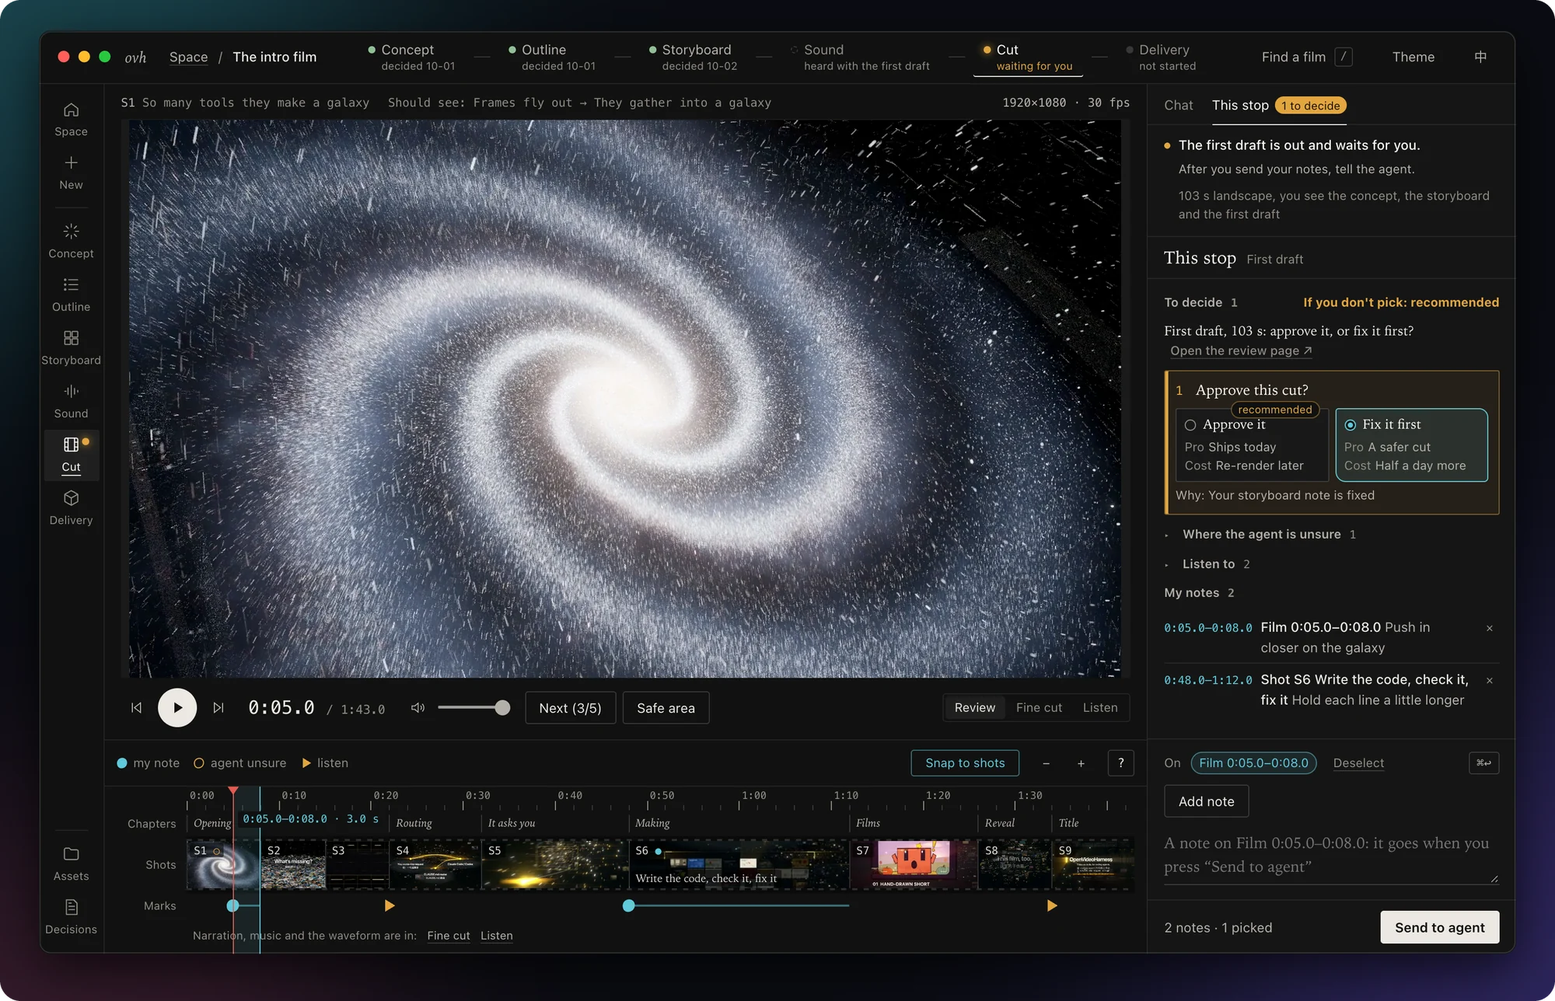
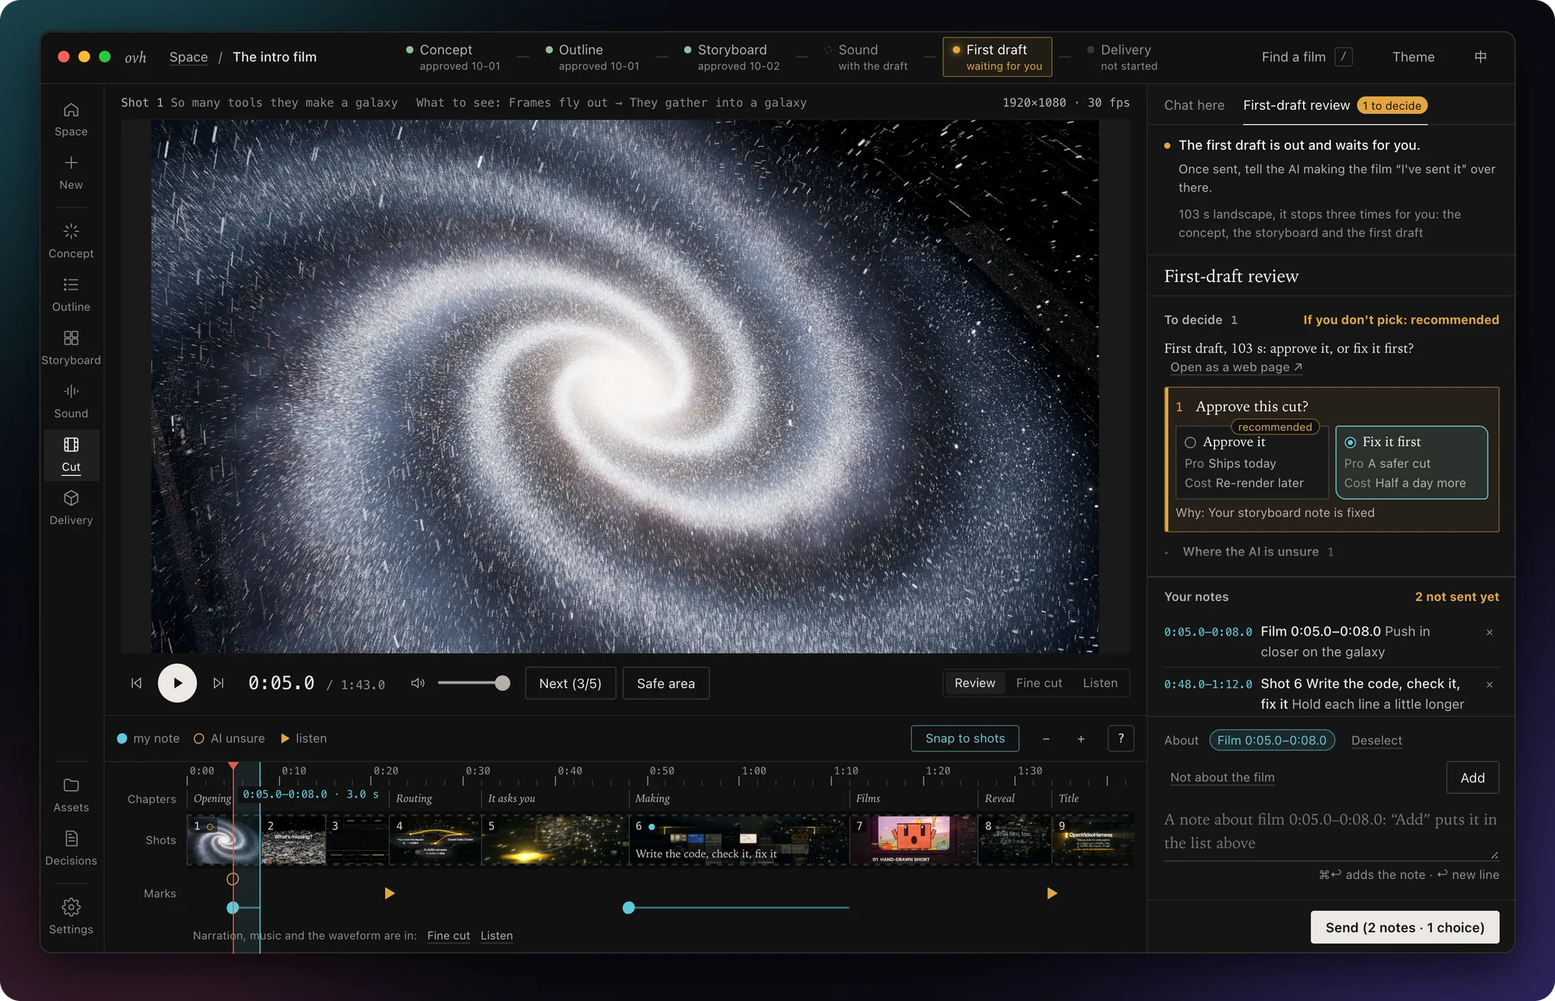
README 和官网上的 Studio 截图跟着 v0.9.0 的页面重拍
- 中英文 18 张图在隔离的控制台上真点真写重拍：主图、空间、分镜、初版写意见、立意、复审对比、三套主题，片子和停的那一步照旧，用仓库自己的介绍片和样片。
- 复审对比改用样片里的傅里叶讲解；弹窗多了一行换行提示，高 674 像素，官网的 height 跟着改。
- 两份 README 和官网描述这些图的 alt 与说明换成新页面的说法。

diff --git a/docs/site/index.html b/docs/site/index.html
@@ -836,15 +836,15 @@ html[data-lang="zh"] .layer.harness::after { content: "缺的那一层"; }
       <figcaption><span lang="en">OVH Studio in 17 seconds: look, point, say, decide (the film's words are in Chinese). The film under review in the window is this repo's own intro film.</span><span lang="zh">OVH Studio，17 秒：看、指、说、定。窗口里在审的，是这个仓库自己的介绍片。</span></figcaption>
     </figure>
     <ol class="studio-steps">
-      <li data-r><button type="button" class="shot-btn" data-szoom><img lang="en" src="../assets/studio/space.en.webp" width="1440" height="900" loading="lazy" decoding="async" alt="Studio's space: a card for every film, the ones waiting for you first"><img lang="zh" src="../assets/studio/space.zh.webp" width="1440" height="900" loading="lazy" decoding="async" alt="Studio 的空间：每支片子一张卡，等你的排在最前"></button><h3><span lang="en">See where it stands</span><span lang="zh">片子走到哪</span></h3><p><span lang="en">The left column is the stops: concept, outline, storyboard, sound, cut, delivery. A line across the top marks where this film is and who it waits for; the films waiting for you come first.</span><span lang="zh">左边一列就是做片子的几站：立意、大纲、分镜、声音、成片、交付。顶上一条线标着这支片子在哪一站、在等谁；等你的片子排在最前。</span></p></li>
-      <li data-r><button type="button" class="shot-btn" data-szoom><img lang="en" src="../assets/studio/board.en.webp" width="1440" height="900" loading="lazy" decoding="async" alt="The storyboard stop: a keyframe per shot, the shot the agent is unsure of marked"><img lang="zh" src="../assets/studio/board.zh.webp" width="1440" height="900" loading="lazy" decoding="async" alt="分镜这一站：每一镜一张关键帧，agent 没把握的那一镜标出来"></button><h3><span lang="en">Point and say</span><span lang="zh">指着说</span></h3><p><span lang="en">A keyframe per shot, a timeline for the cut. Select a shot, a second or a span and write a line: it becomes a note on that very place.</span><span lang="zh">分镜每一镜一张关键帧，成片是一条时间线。选中一个镜头、一秒或一段，写一句，就是对着那一处的点评。</span></p></li>
-      <li data-r><button type="button" class="shot-btn" data-szoom><img lang="en" src="../assets/studio/note.en.webp" width="1440" height="900" loading="lazy" decoding="async" alt="The cut stop: a few seconds selected on the timeline and a note written about them"><img lang="zh" src="../assets/studio/note.zh.webp" width="1440" height="900" loading="lazy" decoding="async" alt="成片这一站：时间线上选中几秒，写了一条对着这几秒的点评"></button><h3><span lang="en">Hand them over together</span><span lang="zh">攒几条一起交</span></h3><p><span lang="en">Notes gather in the right-hand column. A summary shows them before anything goes; your words land in the project's REVIEW.md, and the agent carries on from them.</span><span lang="zh">点评攒在右边一列，交之前先列一遍；你的原话记进项目的 REVIEW.md，agent 照着往下做。</span></p></li>
-      <li data-r><button type="button" class="shot-btn" data-szoom><img lang="en" src="../assets/studio/decide.en.webp" width="1440" height="900" loading="lazy" decoding="async" alt="The concept stop: three concept cards with a frame each, the recommended one already chosen"><img lang="zh" src="../assets/studio/decide.zh.webp" width="1440" height="900" loading="lazy" decoding="async" alt="立意这一站：三张立意卡各配一帧，推荐的那张已经选好"></button><h3><span lang="en">Decide on cards</span><span lang="zh">在卡片上定</span></h3><p><span lang="en">At the concept, the storyboard and the draft, what you decide is a few cards with the recommended one chosen. Change it with a click, or leave it, and submit once.</span><span lang="zh">到了立意、分镜、初版，要你定的是几张卡，推荐的已经选好。点一下就换，不动就照推荐，最后提交一次。</span></p></li>
+      <li data-r><button type="button" class="shot-btn" data-szoom><img lang="en" src="../assets/studio/space.en.webp" width="1440" height="900" loading="lazy" decoding="async" alt="Studio's space: a card for every film, the ones waiting for you first, and on the right the place to start a new one"><img lang="zh" src="../assets/studio/space.zh.webp" width="1440" height="900" loading="lazy" decoding="async" alt="Studio 的空间：每支片子一张卡，等你的排在最前，右边一列开新片子"></button><h3><span lang="en">See where it stands</span><span lang="zh">片子走到哪</span></h3><p><span lang="en">The row along the top is the film's steps: concept, outline, storyboard, sound, first draft, delivery, each saying who is doing what. The column on the left is what to look at; the films waiting for you come first.</span><span lang="zh">顶上一排是这支片子的几步：立意、大纲、分镜、声音、初版、交付，每一步写着谁在做。左边一列是看什么；等你的片子排在最前。</span></p></li>
+      <li data-r><button type="button" class="shot-btn" data-szoom><img lang="en" src="../assets/studio/board.en.webp" width="1440" height="900" loading="lazy" decoding="async" alt="A storyboard waiting for you: a keyframe per shot, the shot the AI is unsure of marked"><img lang="zh" src="../assets/studio/board.zh.webp" width="1440" height="900" loading="lazy" decoding="async" alt="分镜在等你看：每一镜一张关键帧，AI 没把握的那一镜标出来"></button><h3><span lang="en">Point and say</span><span lang="zh">指着说</span></h3><p><span lang="en">A keyframe per shot, a timeline for the first draft. Select a shot, a second or a span, write a line and press “Add”: it becomes a note on that very place.</span><span lang="zh">分镜每一镜一张关键帧，初版是一条时间线。选中一个镜头、一秒或一段，写一句，点“加一条”，就是写给那一处的意见。</span></p></li>
+      <li data-r><button type="button" class="shot-btn" data-szoom><img lang="en" src="../assets/studio/note.en.webp" width="1440" height="900" loading="lazy" decoding="async" alt="A first draft: a few seconds selected on the timeline and a note added about them, not sent yet"><img lang="zh" src="../assets/studio/note.zh.webp" width="1440" height="900" loading="lazy" decoding="async" alt="初版：时间线上选中几秒，加了一条关于这几秒的意见，还没发"></button><h3><span lang="en">Send them together</span><span lang="zh">攒几条一起发</span></h3><p><span lang="en">Notes gather in the right-hand column, each marked not sent, sent, or picked up. A summary shows them before anything goes; your words land in the project's REVIEW.md, and the agent carries on from them.</span><span lang="zh">意见攒在右边一列，每条写着还没发、发了，还是已经被取走。发出去之前先列一遍；你的原话记进项目的 REVIEW.md，agent 照着往下做。</span></p></li>
+      <li data-r><button type="button" class="shot-btn" data-szoom><img lang="en" src="../assets/studio/decide.en.webp" width="1440" height="900" loading="lazy" decoding="async" alt="A concept waiting for you to pick: three concept cards with a frame each, the recommended one already picked"><img lang="zh" src="../assets/studio/decide.zh.webp" width="1440" height="900" loading="lazy" decoding="async" alt="立意在等你挑：三张立意卡各配一帧，推荐的那张已经选好"></button><h3><span lang="en">Decide on cards</span><span lang="zh">在卡片上定</span></h3><p><span lang="en">At the concept, the storyboard and the draft, what you decide is a few cards with the recommended one chosen. Change it with a click, or leave it, and send once.</span><span lang="zh">到了立意、分镜、初版，要你定的是几张卡，推荐的已经选好。点一下就换，不动就照推荐，最后发一次。</span></p></li>
     </ol>
     <div class="studio-revision" data-r>
       <button type="button" class="shot-btn" data-szoom>
-        <img lang="en" src="../assets/studio/revision.en.webp" width="1060" height="656" loading="lazy" decoding="async" alt="Studio comparing two cuts at the same timecode. Only the original shows the formula yet.">
-        <img lang="zh" src="../assets/studio/revision.zh.webp" width="1060" height="656" loading="lazy" decoding="async" alt="Studio 在同一时间点对比两版成片，左边的原版已经出现公式">
+        <img lang="en" src="../assets/studio/revision.en.webp" width="1060" height="674" loading="lazy" decoding="async" alt="Studio comparing two cuts at the same timecode. Only the original shows the formula yet.">
+        <img lang="zh" src="../assets/studio/revision.zh.webp" width="1060" height="674" loading="lazy" decoding="async" alt="Studio 在同一时间点对比两版成片，左边的原版已经出现公式">
       </button>
       <div>
         <h3><span lang="en">Compare the revision</span><span lang="zh">同一段改完了，接着复审</span></h3>

diff --git a/README.md b/README.md
@@ -47,7 +47,7 @@ The agent keeps the source and exports together in the film's project folder. Wi
 
 [Step-by-step guide](https://github.com/ZLHad/OpenVideoHarness/wiki/Getting-Started) · [Install options and updates](#install-options-and-updates)
 
-<p align="center"><a href="#studio"><img src="docs/assets/studio/hero.en.webp" width="960" alt="The OVH Studio window on a film's cut stop: the galaxy picture in the middle, under it a timeline with thumbnails and seconds 5 to 8 selected; on the right a card waiting for your decision and two notes written on shots, with the Send to agent button below"></a></p>
+<p align="center"><a href="#studio"><img src="docs/assets/studio/hero.en.webp" width="960" alt="The OVH Studio window on a film's first draft: the galaxy picture in the middle, under it a timeline with thumbnails and seconds 5 to 8 selected; along the top the film's steps, the first draft waiting for you; on the right the first-draft review with one choice made and two notes not sent yet, and the Send button below"></a></p>
 
 <p align="center"><sub>Making a film in Studio. Along the top, where the film has got to. Point at a few seconds of the timeline, or at a shot, and write a note. On the right, what waits for your decision; send it all together. The film on screen is this repo's own intro film.</sub></p>
 
@@ -100,19 +100,19 @@ On top of the skills and the command line, we built Studio, a visual window that
 
 <table>
 <tr>
-<td width="56%" valign="top"><img src="docs/assets/studio/space.en.webp" width="100%" alt="Studio's space: a card for every film, the three waiting for you first, each saying what you have to decide"></td>
+<td width="56%" valign="top"><img src="docs/assets/studio/space.en.webp" width="100%" alt="Studio's space: a card for every film, the three waiting for you first, each saying what you have to decide; on the right, the place to write the film you want to make"></td>
 <td valign="top"><b>Where each film has got to, at a glance.</b><br>The row along the top is this film's steps: concept, outline, script, storyboard, sound, first draft, delivery, only the steps this film has, each saying who is doing what: you decided, waiting for you, Claude Code working, not started yet. The column on the left is what to look at: each step's content, plus a record of assets and decisions. Studio opens on every film, the ones waiting for you first, each card saying what you have to decide.</td>
 </tr>
 <tr>
-<td valign="top"><img src="docs/assets/studio/board.en.webp" width="100%" alt="The storyboard stop: a page per segment, a keyframe per shot saying what is seen, the shot the agent is unsure of marked"></td>
+<td valign="top"><img src="docs/assets/studio/board.en.webp" width="100%" alt="A storyboard waiting for you: a page per segment, a keyframe per shot saying what is seen, the shot the AI is unsure of marked; on the right the storyboard review and its one decision"></td>
 <td valign="top"><b>Reviewing is pointing and saying.</b><br>The storyboard is a page per segment and a keyframe per shot; the cut's timeline carries the shots, the sound, what the checks found and where the AI is unsure. Select a shot, a second or a span, write a line, press “Add”, and it is a note.</td>
 </tr>
 <tr>
-<td valign="top"><img src="docs/assets/studio/note.en.webp" width="100%" alt="The cut stop: a few seconds selected on the timeline, and on the right a note written about those seconds"></td>
+<td valign="top"><img src="docs/assets/studio/note.en.webp" width="100%" alt="A first draft: a few seconds selected on the timeline, and on the right a note about those seconds added to your notes, not sent yet"></td>
 <td valign="top"><b>Collect a few, send them at once.</b><br>Each note is about what you pointed at, and they gather in the right-hand column, each marked not sent, sent and not picked up, or picked up. Before anything goes, a summary lists what you chose for each decision and what each note says. Your words are copied into the project's <code>REVIEW.md</code>, and the agent carries on from them.</td>
 </tr>
 <tr>
-<td valign="top"><img src="docs/assets/studio/decide.en.webp" width="100%" alt="The concept stop: on the left the numbers and objects that belong to this topic alone, on the right three concept cards with a frame each, the recommended one already chosen"></td>
+<td valign="top"><img src="docs/assets/studio/decide.en.webp" width="100%" alt="A concept waiting for you to pick: on the left the numbers and objects that belong to this topic alone, in the middle three concept cards with a frame each, the recommended one picked; on the right, ready to send"></td>
 <td valign="top"><b>What you decide, you decide right here.</b><br>At the concept, the storyboard and the first draft, the right-hand column holds what this step needs from you, a few cards each, with the recommended one already chosen. Leave it and the recommendation stands; click to change it; send once.</td>
 </tr>
 </table>

diff --git a/README.zh-CN.md b/README.zh-CN.md
@@ -47,7 +47,7 @@ curl -fsSL https://raw.githubusercontent.com/ZLHad/OpenVideoHarness/main/install
 
 [分步教程](https://github.com/ZLHad/OpenVideoHarness/wiki/%E5%BF%AB%E9%80%9F%E5%BC%80%E5%A7%8B) · [安装选项和更新](#安装更新和国内网络)
 
-<p align="center"><a href="#studio"><img src="docs/assets/studio/hero.zh.webp" width="960" alt="OVH Studio 的窗口，开着一支片子的成片这一站：中间是星河的画面，下面是带缩略图的时间线，选中了 5 到 8 秒；右边是等你拍板的一张卡和两条对着镜头写下的意见，底下是“交给 agent”的按钮"></a></p>
+<p align="center"><a href="#studio"><img src="docs/assets/studio/hero.zh.webp" width="960" alt="OVH Studio 的窗口，开着一支片子的初版：中间是星河的画面，下面是带缩略图的时间线，选中了 5 到 8 秒；顶上一排是这支片子的几步，初版在等你看；右边是看初版，定了一件事，两条意见还没发，底下是“发出去”的按钮"></a></p>
 
 <p align="center"><sub>在 Studio 里做一支片子。顶上是片子走到了哪一步；指着时间线上的几秒或一个镜头写意见；右边是等你拍板的事，攒好一起发出去。画面里是本仓库自己的介绍片。</sub></p>
 
@@ -100,19 +100,19 @@ curl -fsSL https://raw.githubusercontent.com/ZLHad/OpenVideoHarness/main/install
 
 <table>
 <tr>
-<td width="56%" valign="top"><img src="docs/assets/studio/space.zh.webp" width="100%" alt="Studio 的空间：所有片子各一张卡，等你看的三支排在最前，卡上写着等你定什么"></td>
+<td width="56%" valign="top"><img src="docs/assets/studio/space.zh.webp" width="100%" alt="Studio 的空间：所有片子各一张卡，等你看的三支排在最前，卡上写着等你定什么；右边一列是写一句话开新片子的地方"></td>
 <td valign="top"><b>片子走到哪，一眼看到。</b><br>顶上一排是这支片子的几步：立意、大纲、文案、分镜、声音、初版、交付，片子有哪几步就排哪几步，每一步下面写着谁在做：你定了、等你看、Claude Code 在做、还没开始。左边一列是看什么：每一步的内容，另有素材和决定的记录。打开 Studio 先看到所有片子，等你的排在最前，卡上写着要你定什么。</td>
 </tr>
 <tr>
-<td valign="top"><img src="docs/assets/studio/board.zh.webp" width="100%" alt="分镜这一站：一段一页，每一镜一张关键帧，写着看到什么，没把握的那一镜标出来"></td>
+<td valign="top"><img src="docs/assets/studio/board.zh.webp" width="100%" alt="分镜在等你看：一段一页，每一镜一张关键帧，写着看到什么，AI 没把握的那一镜标出来；右边是审分镜，有一件事等你定"></td>
 <td valign="top"><b>审片，就是指着说。</b><br>分镜一段一页，每一镜一张关键帧；成片的时间线上排着镜头、声音、检查查出的问题和 AI 没把握的地方。选中一个镜头、一秒或一段，写一句，点“加一条”，就是一条意见。</td>
 </tr>
 <tr>
-<td valign="top"><img src="docs/assets/studio/note.zh.webp" width="100%" alt="成片这一站：时间线上选中了几秒，右边写了一条对着这几秒的点评"></td>
+<td valign="top"><img src="docs/assets/studio/note.zh.webp" width="100%" alt="初版：时间线上选中了几秒，右边“你的意见”里加了一条关于这几秒的意见，还没发"></td>
 <td valign="top"><b>攒几条，一次发出去。</b><br>意见都写给你指的那一处，攒在右边一列，每条写着还没发、发了还没人取，还是已经被取走。发出去之前先列一遍：每件事选了什么、每条意见说了什么。你的原话抄进项目的 <code>REVIEW.md</code>，agent 照着往下做。</td>
 </tr>
 <tr>
-<td valign="top"><img src="docs/assets/studio/decide.zh.webp" width="100%" alt="立意这一站：左边是素材里只属于这个题目的数字和物件，右边三张立意卡各配一帧，推荐的已经选好"></td>
+<td valign="top"><img src="docs/assets/studio/decide.zh.webp" width="100%" alt="立意在等你挑：左边是素材里只属于这个题目的数字和物件，中间三张立意卡各配一帧，推荐的那张已经选好；右边是要发出去的这个选择"></td>
 <td valign="top"><b>要你定的事，就在这里定。</b><br>到了立意、分镜、初版，右边一列是这一步要你定的几件事，每件几张卡，推荐的已经选好。不动就是照推荐，点一下就换，最后发一次。</td>
 </tr>
 </table>

diff --git a/docs/site/README.md b/docs/site/README.md
@@ -29,7 +29,7 @@ GitHub's file view shows the HTML source, not the page. To see the page:
 Nothing from another site loads with the page, so it opens where Google Fonts, YouTube or a CDN are blocked:
 
 - **Fonts**: the display face (Inter Tight) and the mono face (JetBrains Mono) are in `fonts/`, cut down to Latin and the weights the page uses (23 kB and 12 kB, WOFF2), under the SIL Open Font License 1.1 (`fonts/OFL-*.txt`). They were taken from the google/fonts repository and cut with fontTools (`varLib.instancer`, then `pyftsubset … --flavor=woff2`). Body text and every Chinese character use the system's fonts.
-- **Pictures**: all from this repo. `../assets/studio/` holds the Studio pictures, which the READMEs use too: one per language (`<name>.en.webp`, `<name>.zh.webp`), each an `<img lang=…>` shown with the page's language, loaded lazily, and enlarged on a click. They show Studio's own pages on demo projects. The revision dialog is captured from a short square-area explainer with a test note asking for a longer pause after the formula. Studio's film plays from `media/studio-film.mp4` in a clone that ran `tools/fetch_media.sh` (`docs/site/media/` is not in git) and from the release `media` otherwise, through `<source type="video/mp4">`; its poster is `img/studio.jpg`. `img/` also holds five poster frames of the showcase films; `img/styles/` a 384 × 216 copy of each style's poster (about 14 kB each), for the galaxy and the style wall. The 5-second samples (`styles/<slug>/media/swatch.mp4`) load when a tile is hovered or clicked. A spec-2 style (5–10 s, `tokens.json` `"swatch": {"spec": 2}`) has only its 2 s `preview.mp4` in git: its tile plays that, and its lightbox plays the full sample from the release `styles-media` through `<source type="video/mp4">` once `STYLES_MEDIA_UPLOADED` is set to `true` (the preview, looping, until then). `RELEASE_SAMPLES` names each one's asset as `tools/media.txt` has it; `tools/readme.py check` says when they differ.
+- **Pictures**: all from this repo. `../assets/studio/` holds the Studio pictures, which the READMEs use too: one per language (`<name>.en.webp`, `<name>.zh.webp`), each an `<img lang=…>` shown with the page's language, loaded lazily, and enlarged on a click. They show Studio's own pages on demo projects. The revision dialog is captured from the repo's Fourier explainer (`showcase/03-math-fourier`), with a note asking the first sine wave to sit half a second before the formula. Studio's film plays from `media/studio-film.mp4` in a clone that ran `tools/fetch_media.sh` (`docs/site/media/` is not in git) and from the release `media` otherwise, through `<source type="video/mp4">`; its poster is `img/studio.jpg`. `img/` also holds five poster frames of the showcase films; `img/styles/` a 384 × 216 copy of each style's poster (about 14 kB each), for the galaxy and the style wall. The 5-second samples (`styles/<slug>/media/swatch.mp4`) load when a tile is hovered or clicked. A spec-2 style (5–10 s, `tokens.json` `"swatch": {"spec": 2}`) has only its 2 s `preview.mp4` in git: its tile plays that, and its lightbox plays the full sample from the release `styles-media` through `<source type="video/mp4">` once `STYLES_MEDIA_UPLOADED` is set to `true` (the preview, looping, until then). `RELEASE_SAMPLES` names each one's asset as `tools/media.txt` has it; `tools/readme.py check` says when they differ.
 - **Films**: the showcase films stream from the `media` release, and only when one is played (`preload="none"`); the contact sheets behind "What Claude sees" load when it is turned on. From mainland China the release can be slow; each film's folder and file are linked.
 
 ## Languages

diff --git a/changes/studio-shots-v090.md b/changes/studio-shots-v090.md
@@ -1,0 +1,4 @@
+**README 和官网上的 Studio 截图跟着新页面重拍**
+- Why: v0.9.0 改了 Studio 页面上的每一个字，顶上一排成了片子走到哪的唯一地方，可 README 和官网用的 18 张图还是旧页面（"交给 agent""记下""这一站""对话"），图下的说明也还在说旧词。
+- 中英文各 9 张重拍：主图、空间、分镜、初版写意见、立意、复审对比和三套主题，片子和停的那一步跟原来一样，用的还是仓库自己的介绍片和样片；复审对比换成样片里的傅里叶讲解，弹窗多了一行"换行"提示，高 674 像素。
+- 两份 README 和官网里描述这些图的 alt 和图下的说明换成新页面上的说法：初版、加一条、发出去、AI，不再说"站""交给""对着"；官网四张卡的说明跟着改成顶上一排是几步、左边一列是看什么。
